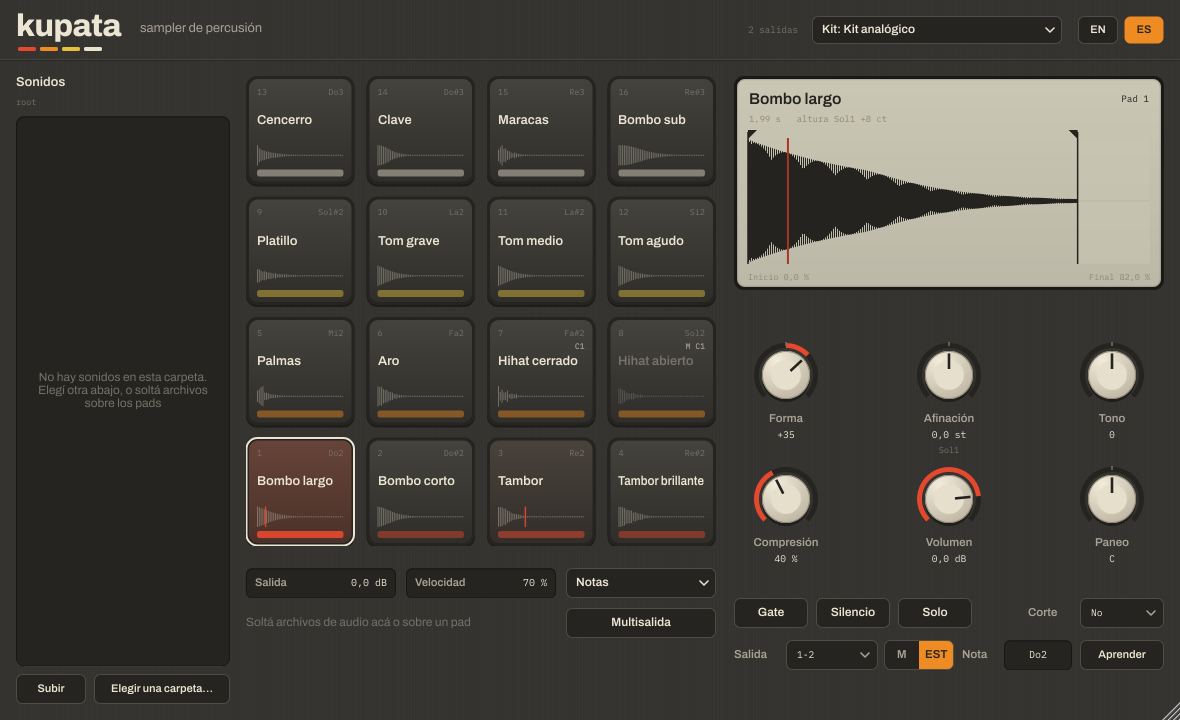
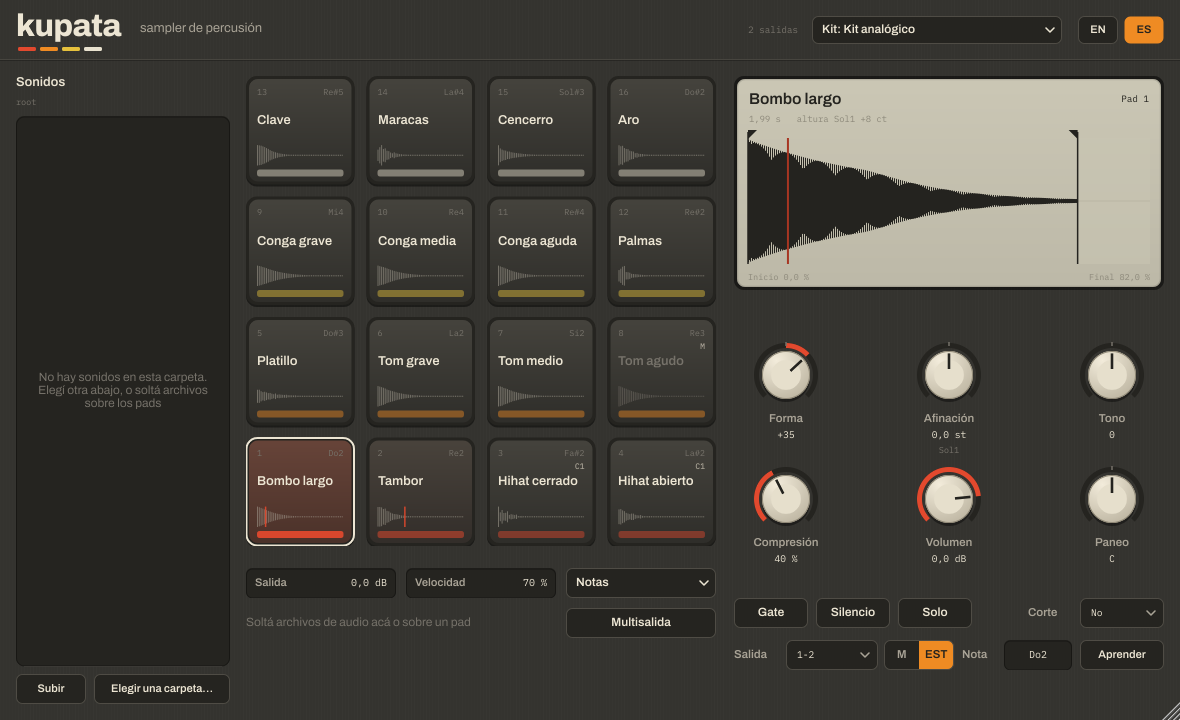
Congas, and the analog kit in the order of Sitala's 808 kit
Three synthesised congas join the factory sounds. The kit's pads now follow
Sitala's "Clean 808" kit (kick, snare, closed and open hat, cymbal, three
toms, three congas, clap, clave, maracas, cowbell, rimshot) and start with
its notes (General MIDI), so MIDI parts written for Sitala play the same
instruments and multi-out sends each one to the same channels. Only the
order was taken from Sitala, none of its sounds.

The pad layout is now separate from the list of factory sounds, which
sessions refer to by number: the short kick, bright snare and sub kick stay
available for any pad, and older sessions keep their sounds.

Claude-Session: https://claude.ai/code/session_01RSKkDss4fCPayTk2Gn2CyV

diff --git a/tests/Snapshot.cpp b/tests/Snapshot.cpp
@@ -168,18 +168,18 @@ int main (int argc, char** argv)
         const char* pattern[] {
             "x.......x.x.....x.......x...x...",   // pad 1 kick
             "....x.......x.......x.......x..x",   // pad 2 snare
-            "x.x.x.x.x.x.x.xxx.x.x.x.x.x.x.x.",   // pad 5 closed hat
-            "..............x...............x.",   // pad 6 open hat
-            "............x...............x...",   // pad 3 clap
-            "......x.........x.....x.........",   // pad 12 cowbell
-            "x.....x.....x.x.....x.....x.x...",   // pad 13 low conga
-            "...x......x.........x.....x.....",   // pad 4 rim
+            "x.x.x.x.x.x.x.xxx.x.x.x.x.x.x.x.",   // pad 3 closed hat
+            "..............x...............x.",   // pad 4 open hat
+            "............x...............x...",   // pad 12 clap
+            "......x.........x.....x.........",   // pad 15 cowbell
+            "x.....x.....x.x.....x.....x.x...",   // pad 9 low conga
+            "...x......x.........x.....x.....",   // pad 16 rim
         };
-        const int notes[] { 36, 37, 40, 41, 38, 47, 48, 39 };   // kick, snare, hats, clap, cowbell, low conga, rim
+        const int notes[] { 36, 38, 42, 46, 39, 56, 64, 37 };   // the kit's own notes (General MIDI, as in Sitala)
         proc.setParam ("gain", -7.0f);
-        proc.setParam ("p12_volume", -8.0f);
-        proc.setParam ("p13_volume", -4.0f);
-        proc.setParam ("p5_volume", -4.0f);
+        proc.setParam ("p15_volume", -8.0f);
+        proc.setParam ("p9_volume", -4.0f);
+        proc.setParam ("p3_volume", -4.0f);
         const int total = (int) (sr * step * 32 * 2) + (int) sr;
         juce::AudioBuffer<float> out (2, total);
         out.clear();
@@ -239,7 +239,8 @@ int main (int argc, char** argv)
                "knobs restored");
         check (b.padInfo (0).factory == 0 && b.padInfo (0).loaded(), "factory pads restored");
         check (! b.padInfo (9).loaded(), "the cleared pad stays empty");
-        check (b.padInfo (5).routing.choke == 1, "the open hat keeps its choke group");
+        check (b.padInfo (2).routing.choke == 1 && b.padInfo (3).routing.choke == 1, "the hats keep their choke group");
+        check (b.padInfo (8).routing.note == 64 && b.padInfo (11).routing.note == 39, "the kit's notes are Sitala's (low conga 64, clap 39)");
         check (b.padInfo (8).factory == 15 && b.padInfo (8).loaded(), "a factory sound outside the kit (the sub kick) is restored");
 
         // the sound travels inside the session: it plays even when the file is gone
@@ -287,7 +288,7 @@ int main (int argc, char** argv)
             check (proc.numOutputs() == 2, "the track's 2 channels count, not the plugin's 32 (" + juce::String (proc.numOutputs()) + ")");
             const int made = proc.buildReaperTracks();
             check (made == 16 && fake::tracks.size() == 19, "16 tracks created (" + juce::String (made) + ")");
-            check (fake::tracks[2]->name == "Kick long" && fake::tracks[17]->name == "Clave" && fake::tracks[18]->name == "Vox",
+            check (fake::tracks[2]->name == "Kick long" && fake::tracks[17]->name == "Rimshot" && fake::tracks[18]->name == "Vox",
                    "named after the pads, right under Kupata's track");
             check (drums->nchan == 32 && ! drums->mainSend && drums->folder == 1 && fake::tracks[17]->folder == -1, "32 channels, a folder, no double sound");
             bool sends = drums->sends.size() == 16;
@@ -329,7 +330,8 @@ int main (int argc, char** argv)
             proc.getVST3ClientExtensions()->setIHostApplication (&host);
             wait (1200);
             check (proc.reaperRouted() && proc.padInfo (6).routing.out == 12, "REAPER's own routing turns multi-out on");
-            check (fake::tracks[1]->name == "Kick long" && fake::tracks[7]->name == "Cymbal", "REAPER's tracks take the pads' names");
+            check (fake::tracks[1]->name == "Kick long" && fake::tracks[7]->name == "Mid tom" && fake::tracks[10]->name == "Mid conga",
+                   "REAPER's tracks take the pads' names");
             check (fake::tracks[16]->name == "Reverb", "a track with a name of its own is left alone");
             proc.setMultiOut (false);
             wait (1200);
@@ -375,13 +377,13 @@ int main (int argc, char** argv)
         };
         for (int pad = 0; pad < 16; ++pad)
         {
-            auto [ok, pk] = play (36 + pad, 20);
+            auto [ok, pk] = play (proc.padInfo (pad).routing.note, 20);
             check (ok && pk[0] > 0.05f, "factory pad " + juce::String (pad + 1) + " sounds (peak " + juce::String (pk[0], 2) + ")");
         }
         proc.setMultiOut (true);
-        auto [ok2, pk2] = play (38);
+        auto [ok2, pk2] = play (42);   // pad 3, the closed hat
         check (ok2 && pk2[4] > 0.05f && pk2[0] < 1.0e-4f, "multi-out: pad 3 on outputs 5-6 only");
-        auto [ok3, pk3] = play (40);
+        auto [ok3, pk3] = play (49);   // pad 5, the cymbal
         check (ok3 && pk3[0] > 0.05f, "multi-out: pad 5 falls back to 1-2 when the track has no 9-10");
         proc.setMultiOut (false);
         proc.playPad (0, 1.0f);
@@ -391,8 +393,8 @@ int main (int argc, char** argv)
         auto [ok5, pk5] = play (-1, 20);
         check (ok5 && pk5[0] < 1.0e-4f, "then silence");
         proc.startLearn (5);
-        play (70, 2);
-        check (proc.pollLearn() && proc.padInfo (5).routing.note == 70, "note learn: pad 6 now plays on 70");
+        play (90, 2);
+        check (proc.pollLearn() && proc.padInfo (5).routing.note == 90, "note learn: pad 6 now plays on 90");
         std::printf (failures == 0 ? "\nall playback tests passed\n" : "\n%d playback tests failed\n", failures);
         return failures == 0 ? 0 : 1;
     }

diff --git a/Source/Parameters.h b/Source/Parameters.h
@@ -191,19 +191,21 @@ inline const std::array<FactorySound, numFactorySounds>& factorySounds()
     return sounds;
 }
 
-// The analog kit, pad 1 (bottom left) to 16: rows of drums, cymbals, toms and hand percussion.
+// The analog kit, pad 1 (bottom left) to 16, in the order of Sitala's 808 kit, so that the same pad
+// (and, with multi-out, the same outputs) holds the same instrument: kick, snare, closed and open hat,
+// cymbal, three toms, three congas, clap, clave, maracas, cowbell, rimshot.
 inline int factoryLayout (int pad)
 {
-    static const int layout[numPads] { 0, 2, 4, 5,  6, 7, 8, 14,  9, 10, 11, 12,  16, 17, 18, 13 };
+    static const int layout[numPads] { 0, 2, 6, 7,  8, 9, 10, 11,  16, 17, 18, 4,  13, 14, 12, 5 };
     return layout[juce::jlimit (0, numPads - 1, pad)];
 }
 
 // Note maps for the whole kit.
 inline int presetNote (int preset, int pad)
 {
-    // General MIDI drums, for the analog kit's sounds: kick, snare, clap, side stick; closed and open
-    // hi-hat, crash, maracas; low, mid and high tom, cowbell; low conga, open and mute high conga, claves
-    static const int gm[numPads]    { 36, 38, 39, 37, 42, 46, 49, 70, 45, 47, 50, 56, 64, 63, 62, 75 };
+    // General MIDI drums for the analog kit's sounds, the same notes as Sitala's 808 kit (the kit
+    // starts with them, so MIDI parts written for Sitala play the same instruments)
+    static const int gm[numPads]    { 36, 38, 42, 46, 49, 45, 47, 50, 64, 62, 63, 39, 75, 70, 56, 37 };
     static const int white[numPads] { 36, 38, 40, 41, 43, 45, 47, 48, 50, 52, 53, 55, 57, 59, 60, 62 };
     pad = juce::jlimit (0, numPads - 1, pad);
     if (preset == 1) return white[pad];

diff --git a/tools/sintetizar_kit.py b/tools/sintetizar_kit.py
@@ -195,12 +195,13 @@ KIT = [
     (19, "conga-aguda",    "High conga",   "Conga aguda",      0, lambda: finish(conga(370.0, 0.065, 0.45), -3.0, 0.02)),
 ]
 
-# The kit as it comes: which sound goes on each pad, from pad 1 (bottom left) to 16. The sounds left
-# out (short kick, bright snare, sub kick) stay in the list of factory sounds, for any pad.
-LAYOUT = [1, 3, 5, 6,     # kick, snare, clap, rimshot
-          7, 8, 9, 15,    # closed hat, open hat, cymbal, maracas
-          10, 11, 12, 13, # toms, cowbell
-          17, 18, 19, 14] # congas, clave
+# The kit as it comes: which sound goes on each pad, from pad 1 (bottom left) to 16, in the order of
+# Sitala's 808 kit. The sounds left out (short kick, bright snare, sub kick) stay in the list of
+# factory sounds, for any pad.
+LAYOUT = [1, 3, 7, 8,     # kick, snare, closed hat, open hat
+          9, 10, 11, 12,  # cymbal, low, mid and high tom
+          17, 18, 19, 5,  # low, mid and high conga, clap
+          14, 15, 13, 6]  # clave, maracas, cowbell, rimshot
 
 
 def write_kit():

diff --git a/Source/PluginProcessor.cpp b/Source/PluginProcessor.cpp
@@ -277,7 +277,7 @@ void KupataProcessor::loadFactoryKit()
         loadFactory (p, factoryLayout (p));
         resetKnobs (p);
         PadRouting r;
-        r.note = firstNote + p;
+        r.note = presetNote (2, p);   // the kit's own notes (General MIDI, as in Sitala)
         r.choke = factorySounds()[(size_t) factoryLayout (p)].choke;
         setRouting (p, r);
     }

diff --git a/README.md b/README.md
@@ -2,7 +2,7 @@
 
 **Sampler de percusión de 16 pads** para VST3, CLAP, AU y como aplicación independiente, en macOS y Windows, en el espíritu de Sitala.
 
-Cada pad tiene un sonido y seis perillas: **Forma, Afinación, Tono, Compresión, Volumen y Paneo**. Forma y Compresión trabajan sobre la envolvente del propio sonido, medida al cargarlo, así que se comportan de manera musical con cualquier sonido y mantienen su volumen. Trae un **kit analógico** de dieciséis sonidos sintetizados desde cero, al estilo de las cajas de ritmo de los 80, que se puede usar libremente.
+Cada pad tiene un sonido y seis perillas: **Forma, Afinación, Tono, Compresión, Volumen y Paneo**. Forma y Compresión trabajan sobre la envolvente del propio sonido, medida al cargarlo, así que se comportan de manera musical con cualquier sonido y mantienen su volumen. Trae un **kit analógico** de dieciséis sonidos sintetizados desde cero, al estilo de las cajas de ritmo de los 80, ordenado en los pads como el kit 808 de Sitala, que se puede usar libremente.
 
 ![Interfaz de Kupata](docs/captura.png)
 
@@ -15,7 +15,7 @@ Las versiones de prueba, que todavía no se publicaron como Release, están en l
 
 ## Cómo se usa
 
-- **Tocar**: las notas desde Do2 (C2) tocan los pads 1 a 16; el pad 1 está abajo a la izquierda, como en una MPC. Un clic en un pad lo toca y lo elige (más abajo en el pad, más fuerte). **Notas** cambia el mapa de todo el kit: cromático, teclas blancas o batería General MIDI. **Aprender** (o clic derecho en un pad) le asigna la próxima tecla que toques.
+- **Tocar**: el kit analógico está ordenado como el kit 808 de Sitala y responde a sus mismas notas (batería General MIDI: bombo en Do2/C2, tambor en Re2, hihat cerrado en Fa#2…), así que las partes MIDI escritas para Sitala tocan los mismos instrumentos. El pad 1 está abajo a la izquierda, como en una MPC. Un clic en un pad lo toca y lo elige (más abajo en el pad, más fuerte). **Notas** cambia el mapa de todo el kit: cromático desde Do2, teclas blancas o batería General MIDI. **Aprender** (o clic derecho en un pad) le asigna la próxima tecla que toques.
 - **Cargar sonidos**: soltá uno o varios archivos sobre un pad (WAV, AIFF, FLAC, Ogg; en Mac también MP3 y otros); varios archivos llenan los pads siguientes. También desde el navegador **Sonidos**: un clic escucha, las flechas recorren la carpeta escuchando cada sonido, doble clic o arrastrar a un pad carga. Clic derecho en un pad: cargar, sonido de fábrica, copiar, pegar, volver las perillas al inicio, vaciar.
 - **Ordenar**: arrastrá un pad sobre otro para intercambiarlos, con Alt para copiarlo. Las notas quedan en su lugar: el sonido se muda con sus perillas.
 - **Recortar**: en la pantalla, arrastrá los marcadores de inicio y final. El silencio del principio y del final de cada archivo se quita solo, para que suene a tiempo. La forma oscura es el sonido tal como suena ahora, con sus perillas; la clara, el original.
@@ -59,7 +59,16 @@ Los sonidos de hasta 12 segundos se guardan dentro de la sesión del DAW, así q
 
 ## El kit analógico
 
-Los dieciséis sonidos se generan con [`tools/sintetizar_kit.py`](tools/sintetizar_kit.py) siguiendo los principios de los circuitos de las cajas de ritmo analógicas de los 80: resonadores amortiguados golpeados por un pulso (bombos, tambores, toms, aro, clave), ruido filtrado (palmas, maracas) y un banco de seis osciladores cuadrados desafinados para los metales (hihats, platillo, cencerro). No usa muestras de ninguna máquina ni de ninguna librería, así que se puede compartir y usar en cualquier música sin pedir permiso. Para cambiarlo, editá el script y volvé a correrlo: escribe los archivos de `Resources/kit`.
+| Fila | Pads |
+|---|---|
+| 13 – 16 | Clave · Maracas · Cencerro · Aro |
+| 9 – 12 | Conga grave · Conga media · Conga aguda · Palmas |
+| 5 – 8 | Platillo · Tom grave · Tom medio · Tom agudo |
+| 1 – 4 | Bombo largo · Tambor · Hihat cerrado · Hihat abierto |
+
+Es el mismo orden que el kit 808 de Sitala: con Multisalida, cada instrumento sale por los mismos canales. El bombo corto, el tambor brillante y el bombo sub siguen disponibles para cualquier pad en clic derecho → *Sonido de fábrica*.
+
+Los dieciséis sonidos se generan con [`tools/sintetizar_kit.py`](tools/sintetizar_kit.py) siguiendo los principios de los circuitos de las cajas de ritmo analógicas de los 80: resonadores amortiguados golpeados por un pulso (bombos, tambores, toms, congas, aro, clave), ruido filtrado (palmas, maracas) y un banco de seis osciladores cuadrados desafinados para los metales (hihats, platillo, cencerro). No usa muestras de ninguna máquina ni de ninguna librería, así que se puede compartir y usar en cualquier música sin pedir permiso. Para cambiarlo, editá el script y volvé a correrlo: escribe los archivos de `Resources/kit`.
 
 ## Compilar
 
